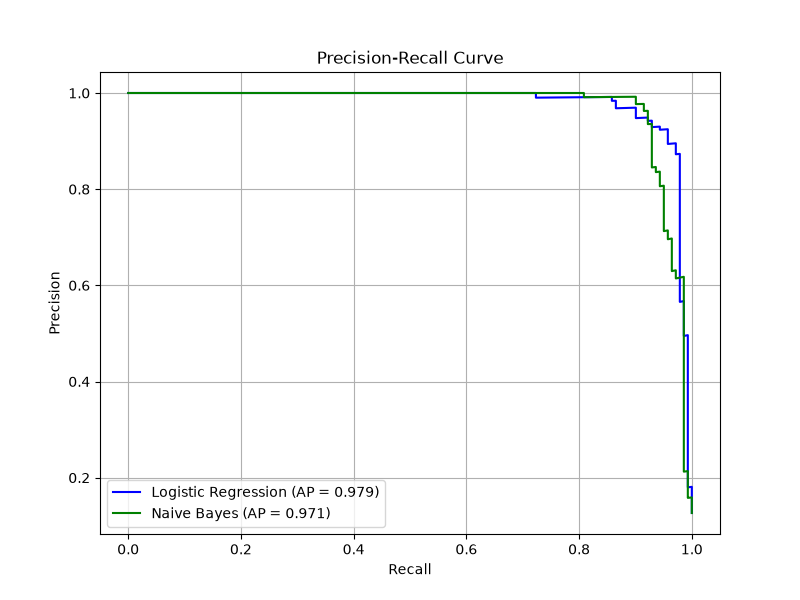
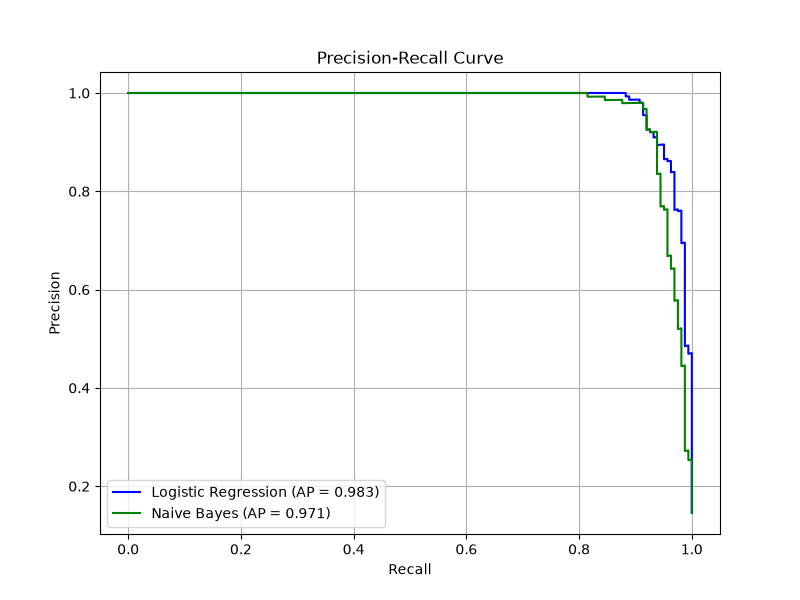
Final Changes

diff --git a/app.py b/app.py
@@ -36,7 +36,13 @@ except Exception as e:
     vectorizer = None
     model_name = None
     print(f"Error loading model assets: {e}")
-
[email redacted]("/", methods=["GET"])
+def home():
+    return jsonify({
+        "status": "running",
+        "model": model_name,
+        "usage": "POST /predict with JSON body: {\"text\": \"your message here\"}"
+    })
 @app.route("/predict", methods=["POST"])
 def predict():
     if model is None or vectorizer is None: